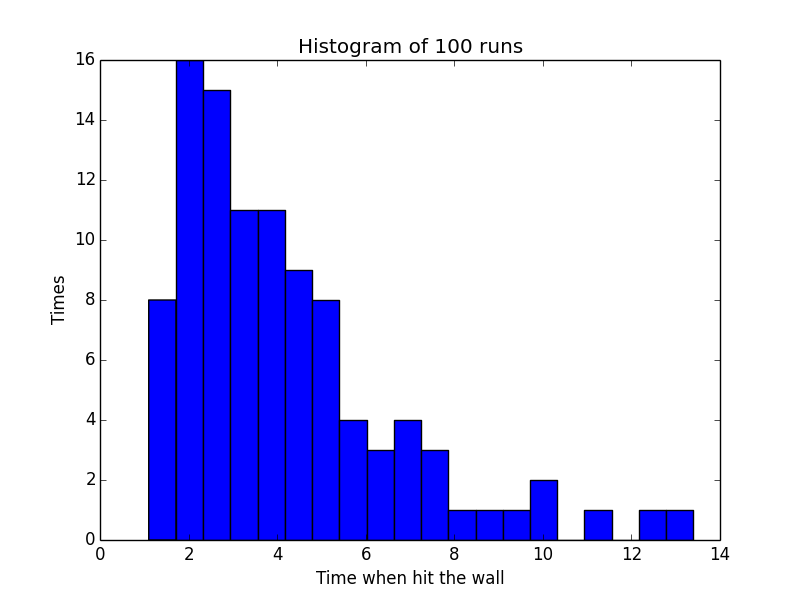
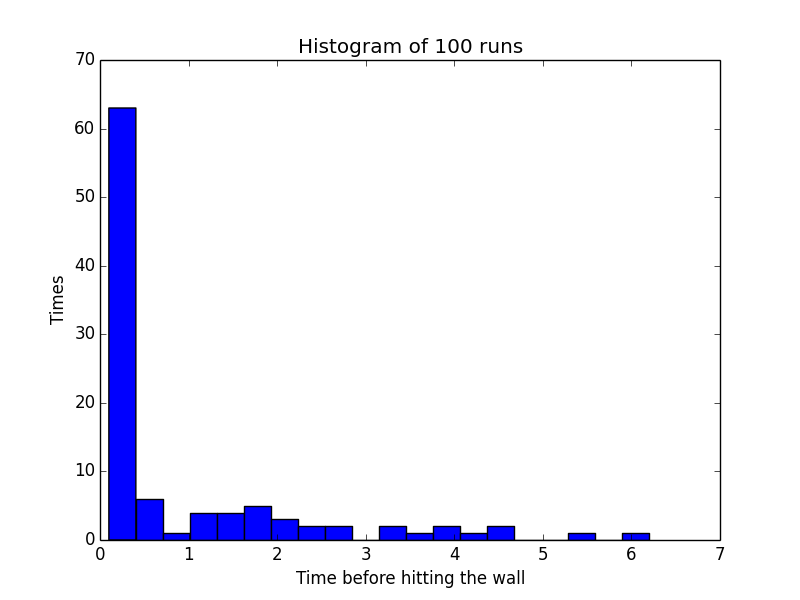
Editted the wall size from (-5, 5) to [0, 5] and added optional argument of wall_size and run_times

Changed region(s): [[0.0625, 0.09, 0.875, 0.99], [0.875, 0.9, 0.9062, 0.93], [0.0938, 0.09, 0.125, 0.12]]

diff --git a/langevin/langevin.py b/langevin/langevin.py
@@ -15,12 +15,12 @@ def drag_force(gamma, velocity):
 	return -gamma * velocity
 
 
-def check_range(location):
+def check_range(location, wall_size):
 	"""
 	This function tests if the molecule is within the range
-	"""
-	
-	if location < 5 and location > -5:
+	wall size have to be greater than 0
+	"""	
+	if location <= wall_size and location >= 0:
 		return True
 	else:
 		return False
@@ -36,7 +36,7 @@ def random_force(T, _lambda, k_B = 1, delta = 1):
 	return np.random.normal(0, sigma)
 
 
-def integrator(initial_position, initial_velocity, temperature, damping_coefficient, time_step, total_time):
+def integrator(initial_position, initial_velocity, temperature, damping_coefficient, time_step, total_time, wall_size = 5):
 	"""
 	This function integrate the acceleration of the particle to get the velocity of the particle, and it also integrate the velocity of the particle to obtain the distance travelled.
 	Thhe integration is based on Euler's method.
@@ -53,7 +53,7 @@ def integrator(initial_position, initial_velocity, temperature, damping_coeffici
 		dv_over_dt = DragForce + RandomForce
 		velocity[i] = velocity[i - 1] + time_step * dv_over_dt
 		position[i] = position[i - 1] + time_step * velocity[i - 1]
-		if not check_range(position[i]):
+		if not check_range(position[i], wall_size):
 			break
 	return time[: i], velocity[: i], position[: i]
 
@@ -64,7 +64,7 @@ def histogram(stop_time, run):
 	"""
 	plt.figure()
 	plt.hist(stop_time, bins = 20)
-	plt.xlabel("Time when hit the wall")
+	plt.xlabel("Time before hitting the wall")
 	plt.ylabel("Times")
 	plt.title("Histogram of {} runs ".format(run))
 	plt.savefig("Histogram.png")
@@ -104,6 +104,8 @@ def create_parser():
 	parser.add_argument("--damping_coefficient", type = float, default = 0.1, help = "Damping coefficient of the particle, default = 0.1")
 	parser.add_argument("--time_step", type = float, default = 0.01, help = "Time step of the process, default = 0.01")
 	parser.add_argument("--total_time", type = float, default =1000, help = "Total time of the process, default =1000")
+	parser.add_argument("--wall_size", type = float, default = 5, help = "The size of the wall, default = 5")
+	parser.add_argument("--run_times", type = int, default = 100, help = "The run times for histogramgeneration, default = 100")
 	args = parser.parse_args()
 	return args
 
@@ -116,9 +118,9 @@ def main():
 	time_matrix = []
 	position_matrix = []
 	velocity_matrix = []
-	stop_time = np.zeros(100)
-	for i in range(100):
-		time, velocity, position = integrator(args.initial_position, args.initial_velocity, args.temperature, args.damping_coefficient, args.time_step, args.total_time)
+	stop_time = np.zeros(args.run_times)
+	for i in range(args.run_times):
+		time, velocity, position = integrator(args.initial_position, args.initial_velocity, args.temperature, args.damping_coefficient, args.time_step, args.total_time, args.wall_size)
 		time_matrix.append(time)
 		position_matrix.append(position)
 		velocity_matrix.append(velocity)
@@ -129,8 +131,8 @@ def main():
 	maxrun_velocity = velocity_matrix[index]
 	maxrun_position = position_matrix[index]
 	
-	output(maxrun_time, maxrun_velocity, maxrun_position)
-	histogram(stop_time, 100)
+	output(maxrun_time, maxrun_position, maxrun_velocity)
+	histogram(stop_time, args.run_times)
 	trajectory(maxrun_time, maxrun_position)
 		
 		

diff --git a/tests/test_langevin.py b/tests/test_langevin.py
@@ -18,14 +18,18 @@ class Test(unittest.TestCase):
 		"""
 		dragForce = langevin.drag_force(2, 3)
 		self.assertEqual(dragForce, -6)
+
+
 	def test_check_range(self):
 		"""
 		unit test for testing the function check_range
 		"""
-		self.assertTrue(langevin.check_range(random.random() * 5))
-		self.assertTrue(langevin.check_range(random.random() * (-5)))
-		self.assertFalse(langevin.check_range(10))
-		self.assertFalse(langevin.check_range(-10))
+		self.assertTrue(langevin.check_range(random.random() * 5, 5))
+		self.assertTrue(langevin.check_range(random.random() * 10, 10))
+		self.assertFalse(langevin.check_range(10, 5))
+		self.assertFalse(langevin.check_range(-10, 7))
+
+
 	def test_random_force(self):
 		"""
 		unit test for testing the function random_force
@@ -40,6 +44,7 @@ class Test(unittest.TestCase):
 		variance = np.var(_random_force)
 		self.assertTrue(mean < 0.2 or mean > -0.2)
 		self.assertTrue(variance > 0.98 * theoretical_value or variance < 1.02 * theoretical_value)
+
 	def test_integrator(self):
 		"""
 		unit test for testing the function integrator
@@ -50,15 +55,16 @@ class Test(unittest.TestCase):
 		damping_coefficient = random.random()
 		time_step = random.random()
 		total_time = 1000
-		time, velocity, position = langevin.integrator(initial_position, initial_velocity, temperature, damping_coefficient, time_step, total_time)
+		wall_size = 5
+		time, velocity, position = langevin.integrator(initial_position, initial_velocity, temperature, damping_coefficient, time_step, total_time, wall_size)
 		self.assertEqual(len(time), len(velocity))
 		self.assertEqual(len(velocity), len(position))
 		self.assertEqual(time[0], 0)
 		self.assertEqual(velocity[0], initial_velocity)
 		self.assertEqual(position[0], initial_position)
 		for i in range(len(position)):
-			self.assertTrue(position[i] < 5)
-			self.assertTrue(position[i] > -5)
+			self.assertTrue(position[i] <=  wall_size)
+			self.assertTrue(position[i] >=  0)
 
 	def test_histogram(self):
 		"""
@@ -73,7 +79,7 @@ class Test(unittest.TestCase):
 		This is the unit test for trajectory function
 		"""
 		time = np.linspace(0, 100, 101)
-		position = np.linspace(-5, 5, 101)
+		position = np.linspace(0, 5, 101)
 		langevin.trajectory(time, position)
 		self.assertTrue(os.path.isfile("Trajectory.png"))
 	
